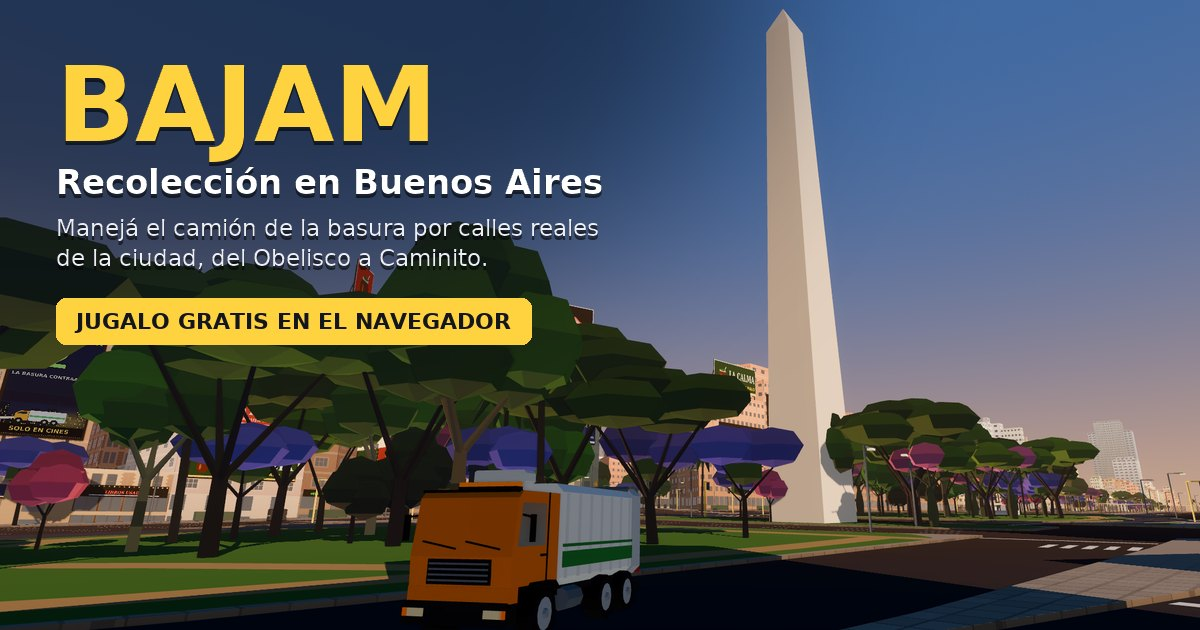
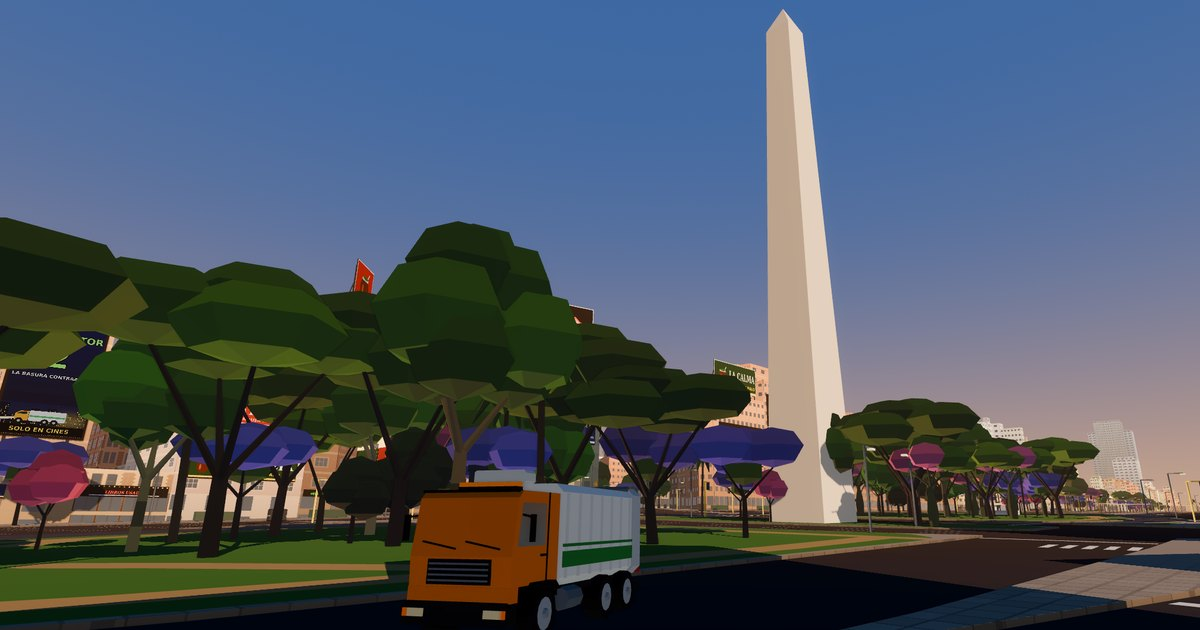
Imagen para compartir sin texto y nombre público Recolección Porteña

Changed region(s): [[0.0, 0.0, 0.6783, 0.573]]

diff --git a/index.html b/index.html
@@ -3,15 +3,15 @@
 	<head>
 		<meta charset="utf-8">
 		<meta name="viewport" content="width=device-width, user-scalable=no, initial-scale=1.0">
-		<title>BAJAM – Recolección en Buenos Aires | Juego gratis en el navegador</title>
+		<title>Recolección Porteña – Versión de prueba | Juego gratis en el navegador</title>
 <meta name="description" content="Manejá el camión de la basura por calles reales de Buenos Aires: del Obelisco a Caminito, juntá contenedores antes de que termine el turno. Gratis, en el navegador.">
 <link rel="canonical" href="https://facundo-villafane.github.io/bajam-web/">
 <meta name="theme-color" content="#1b2438">
 <meta property="og:type" content="website">
-<meta property="og:site_name" content="BAJAM">
+<meta property="og:site_name" content="Recolección Porteña">
 <meta property="og:locale" content="es_AR">
 <meta property="og:url" content="https://facundo-villafane.github.io/bajam-web/">
-<meta property="og:title" content="BAJAM – Recolección en Buenos Aires">
+<meta property="og:title" content="Recolección Porteña – Versión de prueba">
 <meta property="og:description" content="Manejá el camión de la basura por calles reales de Buenos Aires: del Obelisco a Caminito, juntá contenedores antes de que termine el turno. Gratis, en el navegador.">
 <meta property="og:image" content="https://facundo-villafane.github.io/bajam-web/og.jpg">
 <meta property="og:image:type" content="image/jpeg">
@@ -19,10 +19,10 @@
 <meta property="og:image:height" content="630">
 <meta property="og:image:alt" content="El camión de la basura del juego frente al Obelisco, sobre la 9 de Julio">
 <meta name="twitter:card" content="summary_large_image">
-<meta name="twitter:title" content="BAJAM – Recolección en Buenos Aires">
+<meta name="twitter:title" content="Recolección Porteña – Versión de prueba">
 <meta name="twitter:description" content="Manejá el camión de la basura por calles reales de Buenos Aires: del Obelisco a Caminito, juntá contenedores antes de que termine el turno. Gratis, en el navegador.">
 <meta name="twitter:image" content="https://facundo-villafane.github.io/bajam-web/og.jpg">
-<script type="application/ld+json">{"@context":"https://schema.org","@type":"VideoGame","name":"BAJAM – Recolección en Buenos Aires","url":"https://facundo-villafane.github.io/bajam-web/","image":"https://facundo-villafane.github.io/bajam-web/og.jpg","description":"Manejá el camión de la basura por calles reales de Buenos Aires: del Obelisco a Caminito, juntá contenedores antes de que termine el turno. Gratis, en el navegador.","inLanguage":"es-AR","gamePlatform":"Web browser","applicationCategory":"Game","operatingSystem":"Any","offers":{"@type":"Offer","price":"0","priceCurrency":"ARS"}}</script>
+<script type="application/ld+json">{"@context":"https://schema.org","@type":"VideoGame","name":"Recolección Porteña","url":"https://facundo-villafane.github.io/bajam-web/","image":"https://facundo-villafane.github.io/bajam-web/og.jpg","description":"Manejá el camión de la basura por calles reales de Buenos Aires: del Obelisco a Caminito, juntá contenedores antes de que termine el turno. Gratis, en el navegador.","inLanguage":"es-AR","gamePlatform":"Web browser","applicationCategory":"Game","operatingSystem":"Any","offers":{"@type":"Offer","price":"0","priceCurrency":"ARS"}}</script>
 		<style>
 html, body, #canvas {
 	margin: 0;
@@ -130,7 +130,7 @@ body {
 
 		<script src="index.js"></script>
 		<script>
-const GODOT_CONFIG = {"args":[],"canvasResizePolicy":2,"emscriptenPoolSize":8,"ensureCrossOriginIsolationHeaders":true,"executable":"index","experimentalVK":false,"fileSizes":{"index.pck":7929408,"index.wasm":39514754},"focusCanvas":true,"gdextensionLibs":[],"godotPoolSize":4};
+const GODOT_CONFIG = {"args":[],"canvasResizePolicy":2,"emscriptenPoolSize":8,"ensureCrossOriginIsolationHeaders":true,"executable":"index","experimentalVK":false,"fileSizes":{"index.pck":7929888,"index.wasm":39514754},"focusCanvas":true,"gdextensionLibs":[],"godotPoolSize":4};
 const GODOT_THREADS_ENABLED = false;
 const engine = new Engine(GODOT_CONFIG);
 
@@ -234,7 +234,7 @@ const engine = new Engine(GODOT_CONFIG);
 	}
 }());
 		</script>
-	<noscript><h1>BAJAM – Recolección en Buenos Aires</h1><p>Manejá el camión de la basura por calles reales de Buenos Aires: del Obelisco a Caminito, juntá contenedores antes de que termine el turno. Gratis, en el navegador. Necesita JavaScript y WebGL.</p></noscript>
+	<noscript><h1>Recolección Porteña</h1><p>Manejá el camión de la basura por calles reales de Buenos Aires: del Obelisco a Caminito, juntá contenedores antes de que termine el turno. Gratis, en el navegador. Necesita JavaScript y WebGL.</p></noscript>
 </body>
 </html>
 
